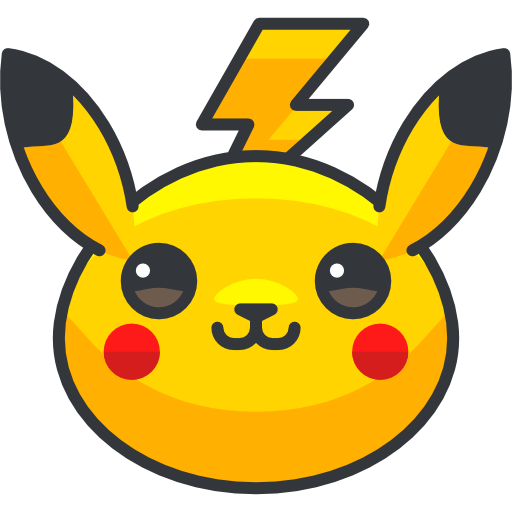
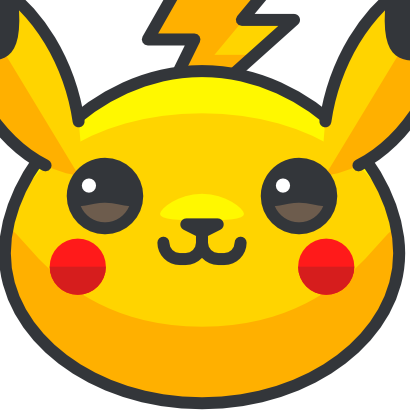
新增skin capoo, rowlet, rainbow

diff --git a/src/main/resources/static/game-end/js/snake.js b/src/main/resources/static/game-end/js/snake.js
@@ -69,7 +69,7 @@ function createSnake() {
         let previousSkin = localStorage.getItem("selectedSkin");
         skinPicker.value = previousSkin;
         snake.style.backgroundImage = `url('img/${previousSkin}.png')`;
-        snake.style.backgroundSize = "contain";
+        snake.style.backgroundSize = "cover";
         snake.style.backgroundColor = "transparent";
       }
       // 檢查紀錄的color
@@ -95,7 +95,7 @@ function createSnake() {
       skinPicker.addEventListener("change", function () {
         let selectedSkin = skinPicker.value;
         snake.style.backgroundImage = `url('img/${selectedSkin}.png')`;
-        snake.style.backgroundSize = "contain";
+        snake.style.backgroundSize = "cover";
         snake.style.backgroundColor = "transparent";
 
         // 将当前选择保存到本地存储中
@@ -430,6 +430,6 @@ function playslowDownMusic() {
 // 自訂頭像
 function pikachu(snake) {
   snake.style.backgroundImage = "url('img/pikachu.png')";
-  snake.style.backgroundSize = "contain";
+  snake.style.backgroundSize = "cover";
   snake.style.backgroundColor = "transparent";
 }

diff --git a/src/main/resources/static/game-end/snake.html b/src/main/resources/static/game-end/snake.html
@@ -162,12 +162,11 @@
                     <span></span>
                     <select name="" id="skinPicker">
                         <option value="">choise skin</option>
+                        <option value="rowlet">rowlet</option>
                         <option value="pikachu">pikachu</option>
-                        <option value="MySQL">MySQL</option>
-                        <option value="java">java</option>
-                        <option value="bear">bear</option>
+                        <option value="capoo">capoo</option>
                         <option value="cat">cat</option>
-                        <option value="icon">triplight</option>
+                        <option value="rainbow">rainbow</option>
                     </select>
                 </a>
 
